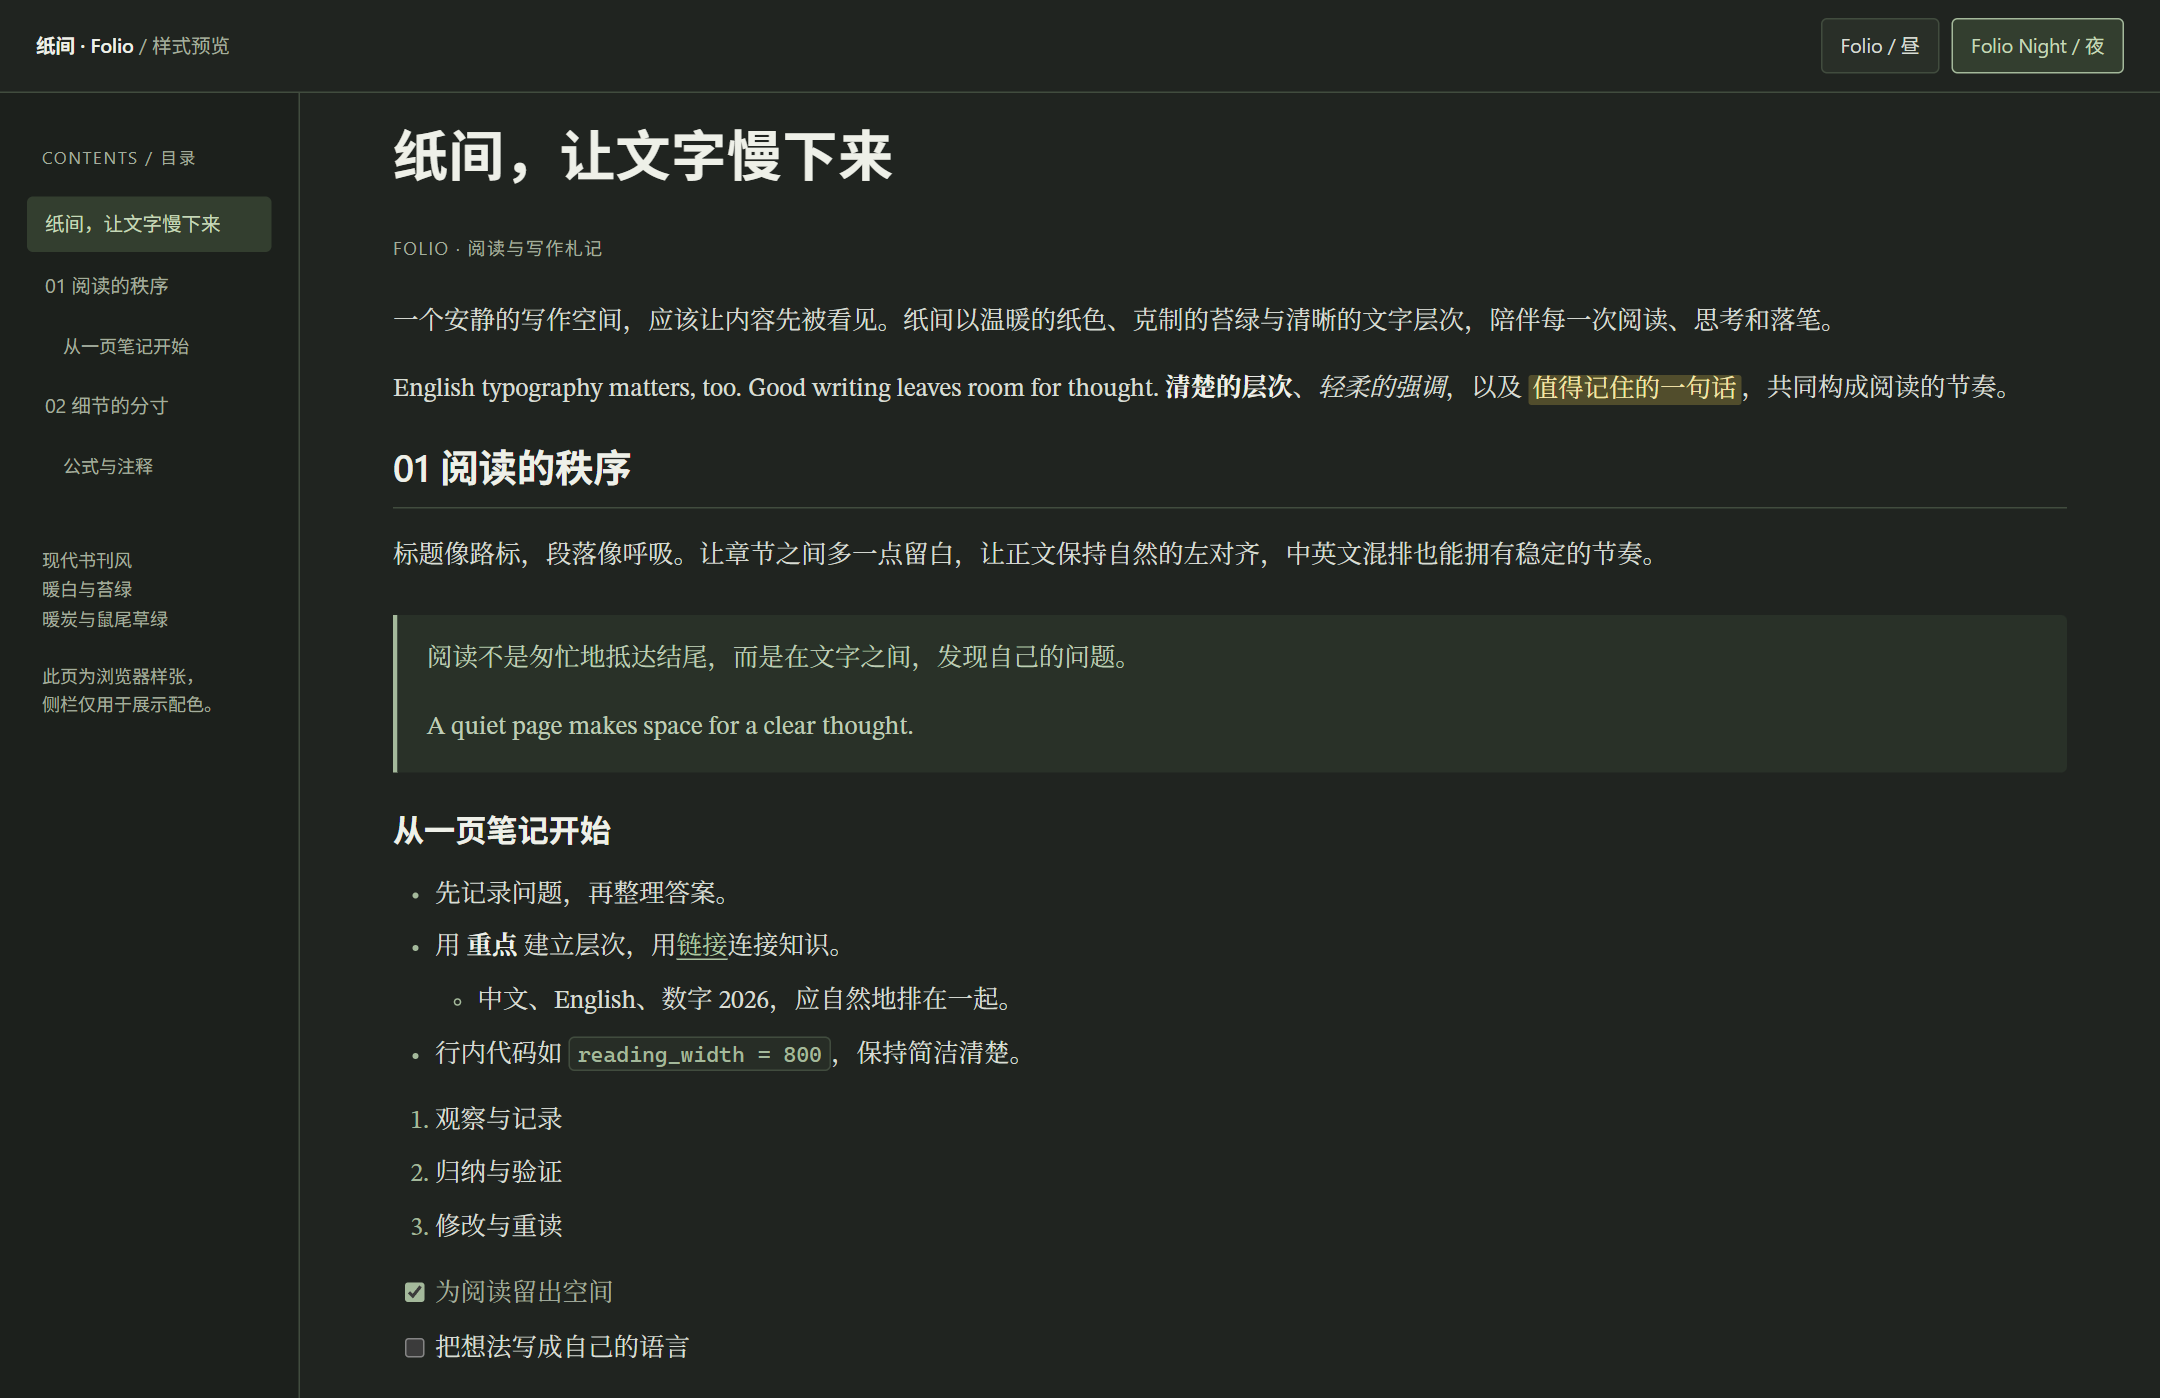
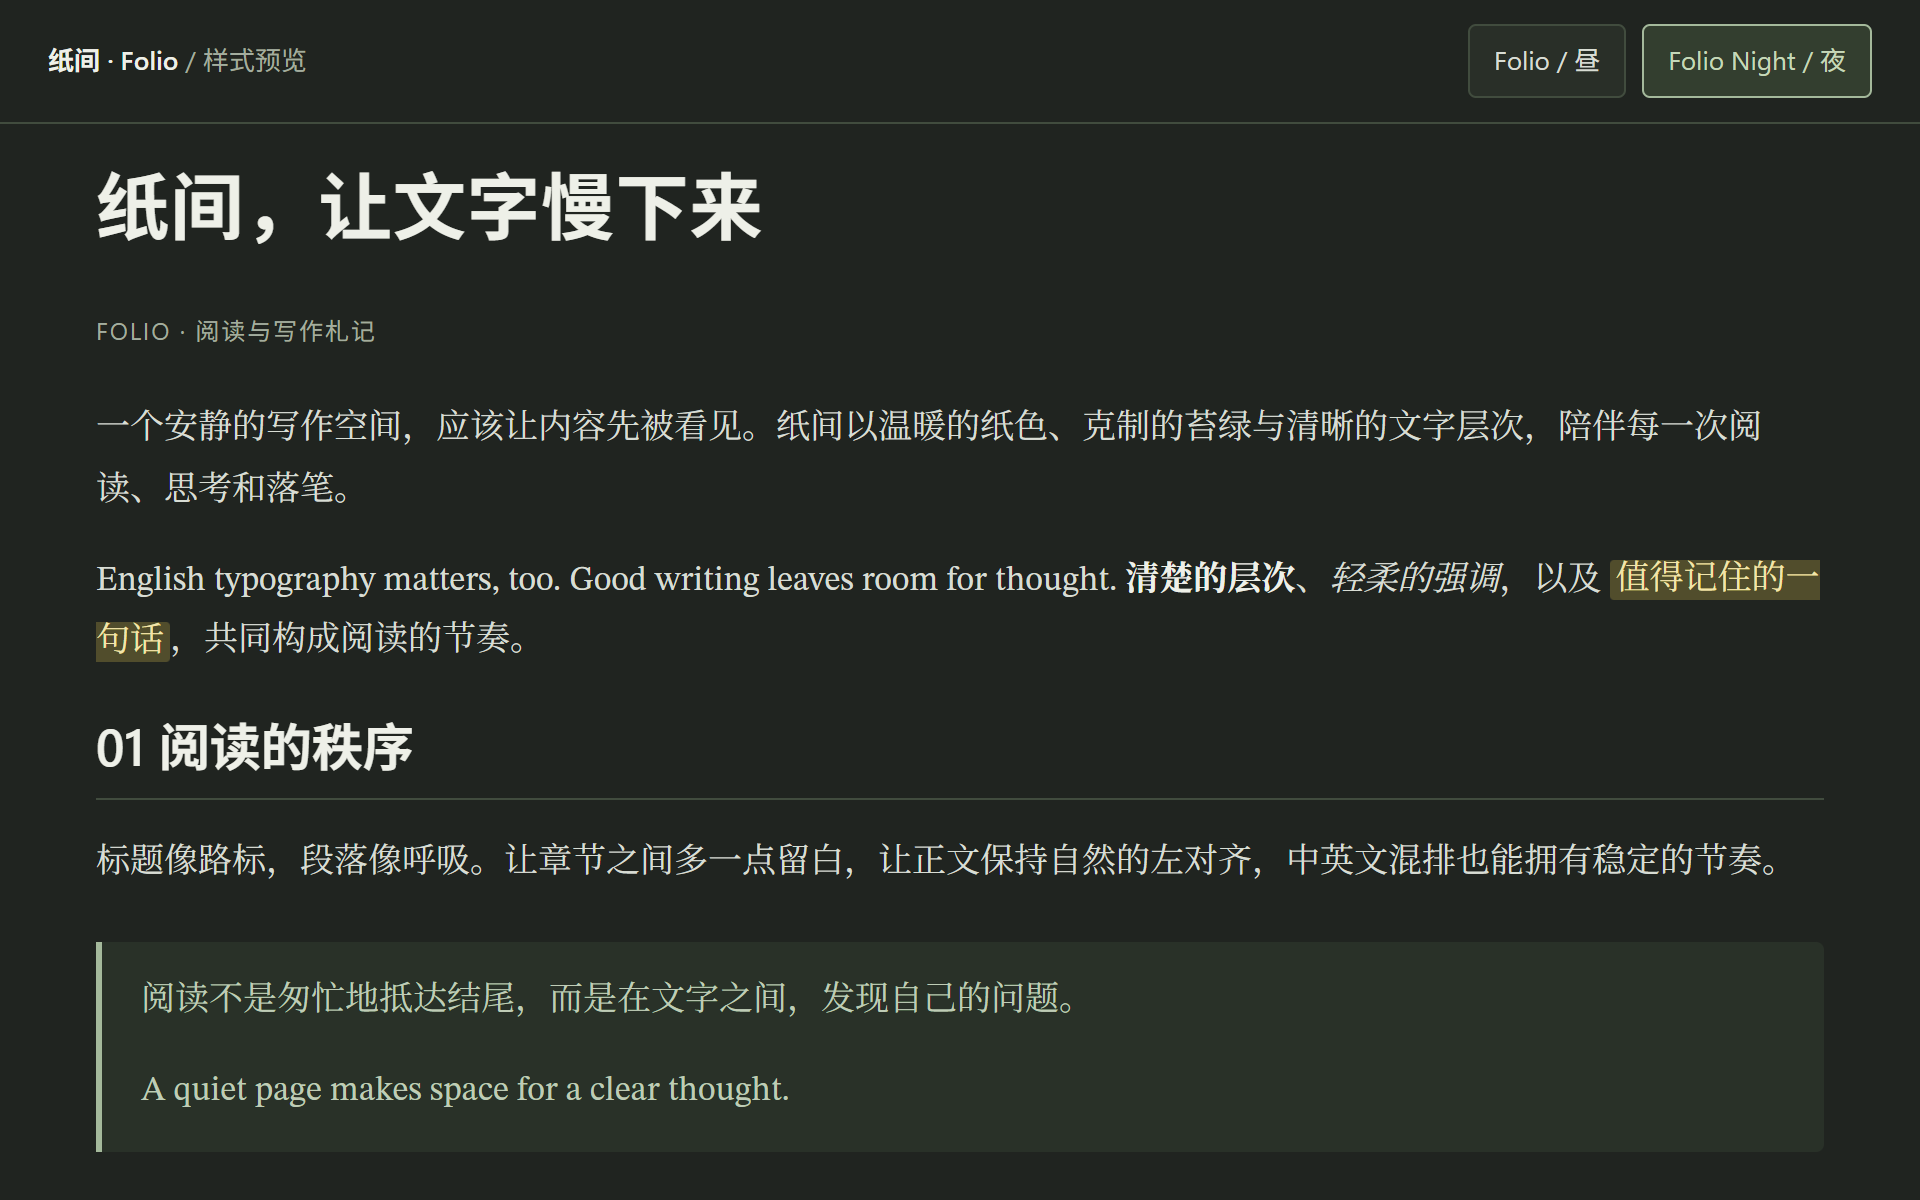
Improve README screenshots and default table heading alignment

diff --git a/folio/folio-base.css b/folio/folio-base.css
@@ -137,6 +137,8 @@ a:focus-visible, button:focus-visible, input:focus-visible, select:focus-visible
 #write table { width: 100%; margin: 1.5em 0; border-collapse: collapse; font-size: 0.94em; font-variant-numeric: tabular-nums; }
 #write th, #write td { padding: 0.65em 0.85em; border: 0; border-bottom: 1px solid var(--border-color); vertical-align: top; }
 #write th { color: var(--heading-color); background: var(--panel-bg-color); font-family: var(--folio-ui-font); font-weight: 600; }
+/* Keep Markdown's explicit alignment attributes and inline styles. */
+#write th:not([align]) { text-align: left; }
 #write tr:nth-child(even) td { background: var(--panel-bg-color); }
 #write table tr { color: var(--text-color); background: transparent; }
 

diff --git a/README.md b/README.md
@@ -10,15 +10,15 @@ A modern editorial theme for Typora, with warm colors, serif body text, and a qu
 
 Warm paper tones with moss-green accents.
 
-![Folio light theme with bilingual text, headings, a quote, and lists](docs/images/folio.png)
+![Folio light theme with bilingual text, headings, highlighting, and a quote](docs/images/folio.png)
 
 ### Folio Night — dark
 
 Warm charcoal with sage-green accents.
 
-![Folio Night dark theme with bilingual text, headings, a quote, and lists](docs/images/folio-night.png)
+![Folio Night dark theme with bilingual text, headings, highlighting, and a quote](docs/images/folio-night.png)
 
-These screenshots are rendered from the included [browser preview](folio/preview.html). The sidebar illustrates theme colors; actual Typora controls and rendering may differ. Open the preview locally to switch between both palettes.
+These screenshots are rendered from the included [browser preview](folio/preview.html). Actual Typora controls and rendering may differ. Open the preview locally to switch between both palettes.
 
 ## Features
 
@@ -28,6 +28,12 @@ These screenshots are rendered from the included [browser preview](folio/preview
 - A reading area that uses 90% of the editor width and adapts to narrow windows.
 - Coordinated styles for tables, quotes, code, task lists, and footnotes.
 - A white background with dark text for printing and PDF export.
+
+### Tables and code
+
+Table headings align with their columns by default, while explicit Markdown alignment is preserved. Code blocks use the theme's syntax colors.
+
+![Folio table with left-aligned headings and a Python code block with syntax highlighting](docs/images/folio-details.png)
 
 ## Installation
 

diff --git a/README.zh-CN.md b/README.zh-CN.md
@@ -10,15 +10,15 @@
 
 暖白纸色，苔绿点缀。
 
-![Folio 亮色主题：中英文混排、标题、引用与列表](docs/images/folio.png)
+![Folio 亮色主题：中英文混排、标题、高亮与引用](docs/images/folio.png)
 
 ### Folio Night · 纸间·夜
 
 暖炭底色，鼠尾草绿点缀。
 
-![Folio Night 暗色主题：中英文混排、标题、引用与列表](docs/images/folio-night.png)
+![Folio Night 暗色主题：中英文混排、标题、高亮与引用](docs/images/folio-night.png)
 
-以上图片由仓库内的[浏览器预览页](folio/preview.html)渲染。侧栏用于展示主题配色，实际 Typora 控件与渲染效果可能有所不同。在本地打开预览页即可切换两套配色。
+以上图片由仓库内的[浏览器预览页](folio/preview.html)渲染，实际 Typora 控件与渲染效果可能有所不同。在本地打开预览页即可切换两套配色。
 
 ## 特点
 
@@ -28,6 +28,12 @@
 - 正文占编辑区宽度的 90%，窄窗口自动适配。
 - 表格、引用、代码、任务列表和脚注采用协调的样式。
 - 打印与 PDF 导出使用白底深色文字。
+
+### 表格与代码
+
+表头默认与所在列的正文左对齐，同时保留 Markdown 显式指定的对齐方式。代码块使用主题配套的语法配色。
+
+![Folio 表格与代码细节：左对齐表头和带语法高亮的 Python 代码块](docs/images/folio-details.png)
 
 ## 安装与使用
 
